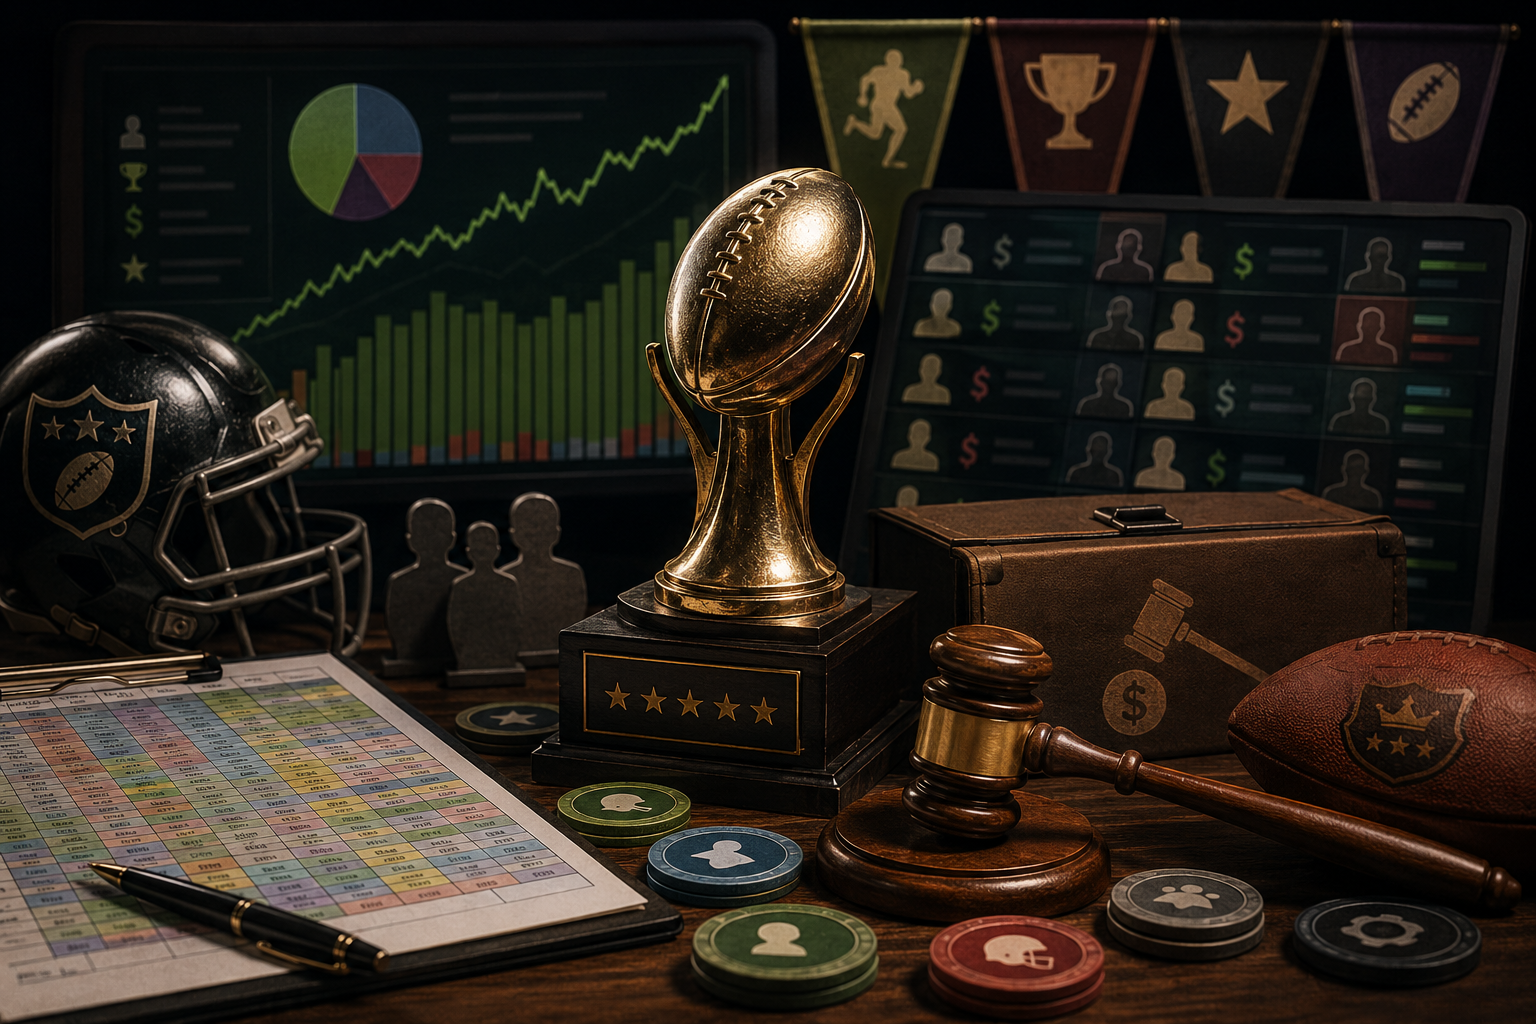
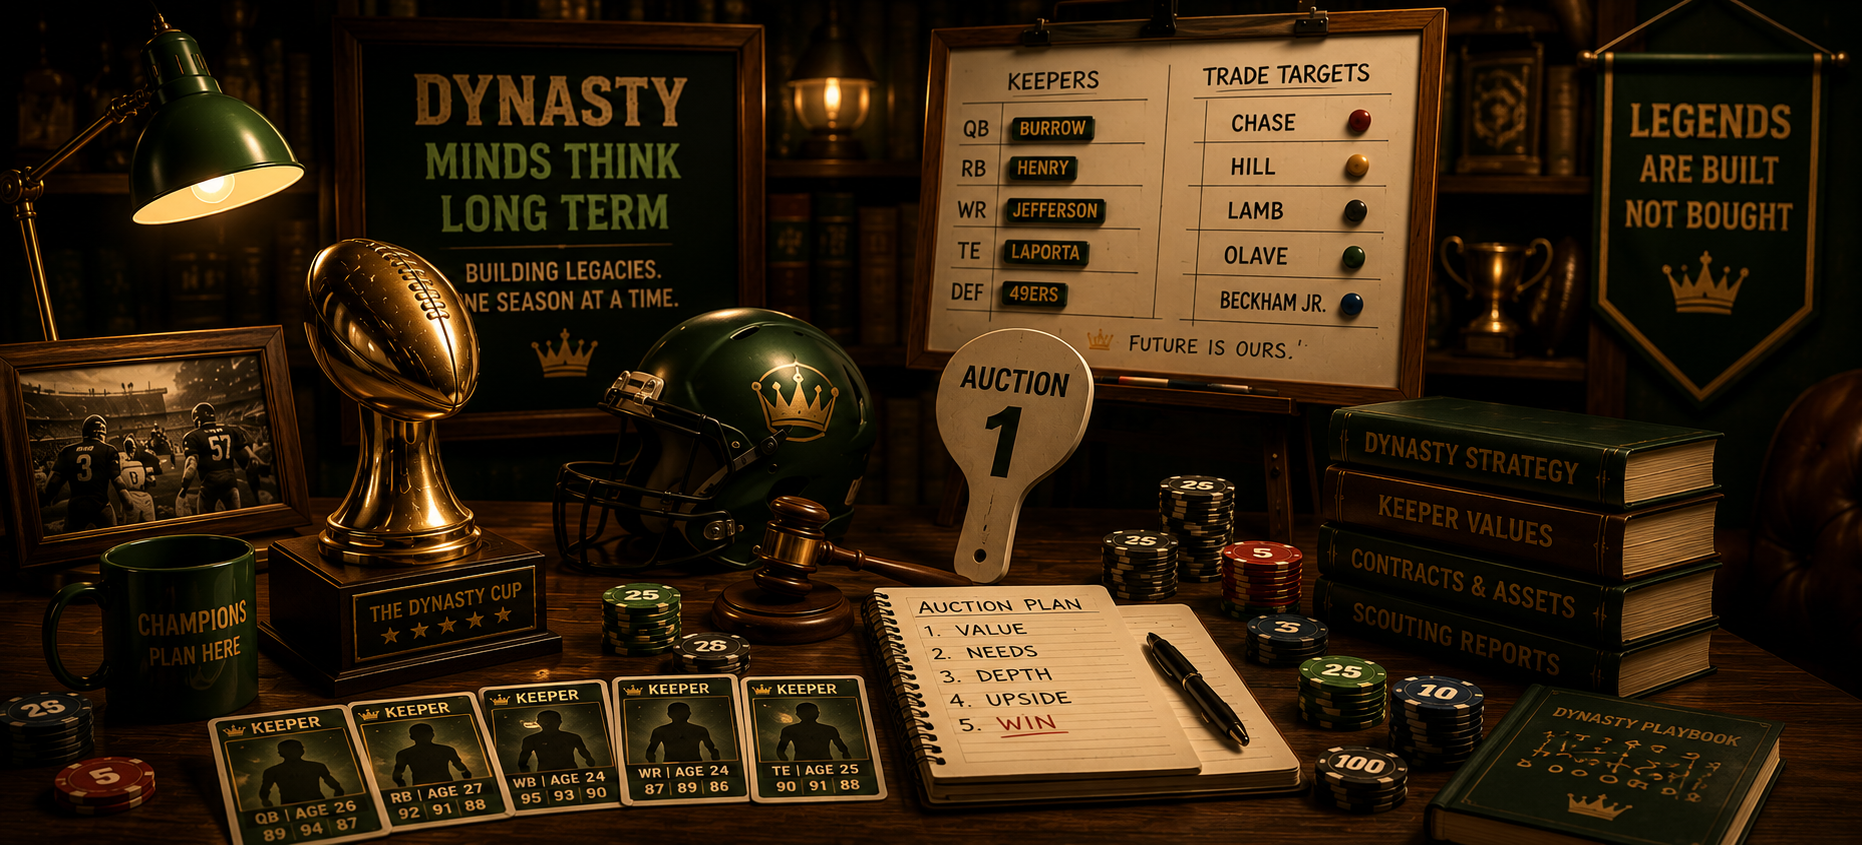
Update A New Dynasty and Espinosa Clubhouse images

diff --git a/streamlit_app.py b/streamlit_app.py
@@ -30,7 +30,7 @@ PROJECTS = [
         "title":       "Espinosa FFL Clubhouse",
         "description": "The Espinosa family fantasy football hub. Champions hall, rivalry room, season archive, and more.",
         "url":         CLUBHOUSE_APP_URL,
-        "thumbnail":   "assets/espinosa_ffl.png",
+        "thumbnail":   "assets/espinosa_ffl2.png",
         "icon":        "🏠",
         "obj_pos":     "center top",
         "fallback_gradient": "linear-gradient(160deg, #0a1a0a 0%, #1a3a1a 45%, #0a1a0a 100%)",